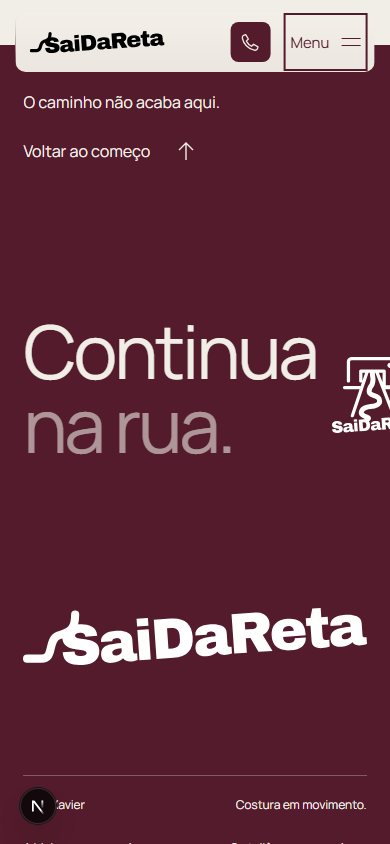
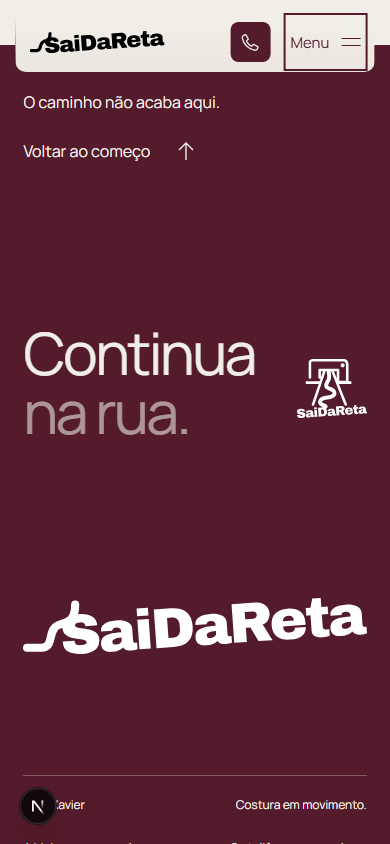
fix(rodape): preservar emblema inteiro no celular

Changed region(s): [[0.0615, 0.3697, 1.0, 0.5545], [0.0615, 0.7085, 0.9538, 0.8009]]

diff --git a/app/style.css b/app/style.css
@@ -1106,3 +1106,10 @@ a:active, button:active { scale: .97; }
   .brand img { width: 115px; }
   .menu-button { font-size: 13px; gap: 8px; }
 }
+
+.footer-scene { display: grid; grid-template-columns: minmax(0, 1fr) auto; }
+.footer-scene h2 { min-width: 0; }
+@media (max-width: 1000px) {
+  .footer-scene h2 { font-size: 15vw; }
+  .footer-emblem { width: 18vw; height: 18vw; }
+}

diff --git a/docs/header-motion-release.md b/docs/header-motion-release.md
@@ -12,12 +12,12 @@ Cliques em links e botões recebem pulso de escala de 240ms, inclusive ativaçã
 
 ## Verificação local
 
-- npm run lint: exit0.
-- npm run typecheck: exit0.
-- npm run build: exit0, Next16.4.5, rota / estática, 5/5 páginas.
+- npm run lint: exit 0.
+- npm run typecheck: exit 0.
+- npm run build: exit 0, Next 16.4.5, rota / estática, 5/5 páginas.
 - git diff --check: sem erros.
 - Detector mecânico Impeccable em app/page.tsx e app/style.css: lista vazia.
-- Revisão Chromium pelo controlador em 1440×900,390 × 844 e640 × 320: zero overflow horizontal; header fixo; desktop sem menu; tablet/celular sem navegação desktop; telefone correto. Menu permanece montado aos 80ms da saída e desmonta aos 530ms. Após correção de especificidade da passagem do fio, nenhuma seção ou rodapé ficou abaixo da altura da viewport. Capturas em docs/evidence-header.
+- Revisão Chromium pelo controlador em 1440 × 900, 390 × 844 e 640 × 320: zero overflow horizontal; header fixo; desktop sem menu; tablet/celular sem navegação desktop; telefone correto. Menu permanece montado aos 80ms da saída e desmonta aos 530ms. Após correção de especificidade da passagem do fio, nenhuma seção ou rodapé ficou abaixo da altura da viewport. Capturas em docs/evidence-header.
 
 Em movimento reduzido, 390 × 844: Enter abriu o menu, Escape fechou, foco retornou ao botão e o painel foi removido (count 0). Capturas adicionais da peça, ateliê e rodapé em docs/evidence-header.
 
@@ -28,3 +28,5 @@ PR 1 https://github.com/eovitu/caio-xavier/pull/1 teve descrição corrigida par
 Nova branch feature/header-motion criada da develop atualizada. Commits 4527c75 (tipografia/cenas), ba703be (header/menu) e f45e8cc (especificidade da altura). PR 2: https://github.com/eovitu/caio-xavier/pull/2. Release develop→main será registrada após aprovação do CI. Não houve deploy por CLI. Vercel está sendo configurada pelo usuário/controlador, confirmação de produção é separada de merge e CI.
 
 Limites: não há validação em aparelho físico, leitor de tela ou Safari/Firefox nesta unidade. A abertura real do discador depende de aplicativo de chamadas disponível no dispositivo.
+
+Rodapé mobile: corrigida largura mínima automática do título com grid minmax(0,1fr), título 15vw e emblema 18vw até 1000px. Revisão visual pelo controlador confirmou emblema inteiro após o ajuste. Lint, tipos e build repetidos no ajuste: exit 0.
